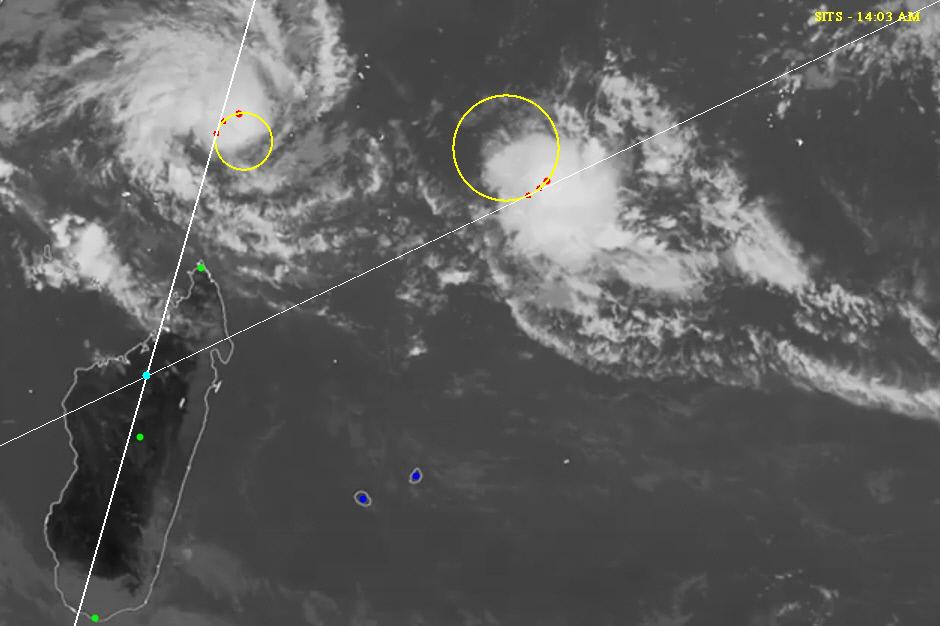
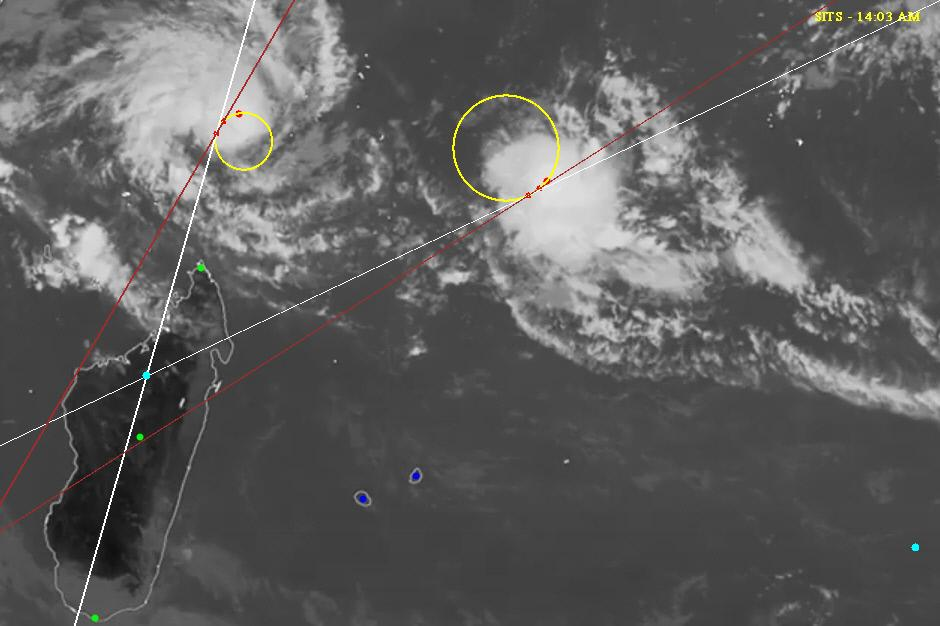
Updates in q2, q3 in assignment#1

diff --git a/assignment1/jigsolver.py b/assignment1/jigsolver.py
@@ -59,11 +59,36 @@ def swap_image(
     return A
 
 
+def mirror_padding(A: np.ndarray, xy: Tuple, hw: Tuple) -> np.ndarray:
+    x, y = xy
+    h, w = hw
+
+    for i in range(h // 2):
+        for j in range(w):
+            A[(x + i, y + j)] = A[(x - i - 1, y + j)]
+
+    for i in range(h // 2):
+        for j in range(w):
+            A[(x + h - i - 1, y + j)] = A[(x + h + i, y + j)]
+
+#    for j in range(w):
+ #       A[(x + h // 2, y + j)] = ( A[(x + h // 2 - 1, y + j)] + A[(x + h // 2 + 1, y + j)] ) // 2
+
+    return A
+
+
 def solve_jigsaw(A: np.ndarray) -> np.ndarray:
     A = flip_image(A, (370, 370), (51, 427), False)
     A = flip_image(A, (150, 515), (179, 185))
     A = flip_image(A, (200, 0), (210, 190), False)
     A = swap_image(A, (0, 0), (200, 190), (200, 0), (210, 190))
+    
+    for i in range(200, 400):
+        for j in range(190):
+            pxl = A[(i, j)]
+            pxl[1], pxl[2] = pxl[2], pxl[1]
+
+    A = mirror_padding(A, (400, 0), (10, 190))
 
     return A
 

diff --git a/assignment1/cycloanalyzer.py b/assignment1/cycloanalyzer.py
@@ -155,6 +155,12 @@ def find_tangent(c: Tuple, p: Tuple) -> Tuple:
     return (m, c)
 
 
+def find_line(c: Tuple, p: Tuple) -> Tuple:
+    m = (c[1] - p[1]) / (c[0] - p[0])
+    c = p[1] - m * p[0]
+    return (m, c)
+
+
 def distance(a: Tuple, b: Tuple) -> float:
     return np.sqrt((a[0] - b[0]) ** 2 + (a[1] - b[1]) ** 2)
 
@@ -243,6 +249,18 @@ for tangent in tangents:
 m1, c1, m2, c2 = *tangents[0], *tangents[1]
 
 poi = int((c2 - c1) / (m1 - m2)), int((m1 * c2 - m2 * c1) / (m1 - m2))
+
+ni = draw_circle(ni, poi, 4, (0, 255, 255))
+
+m1, c1, m2, c2 = *find_line(red_dots[2][0], red_dots[1][0]), *find_line(red_dots[2][1], red_dots[1][1])
+
+poi = int((c2 - c1) / (m1 - m2)), int((m1 * c2 - m2 * c1) / (m1 - m2))
+
+for m_c in [(m1, c1), (m2, c2)] :
+    for i in range(ni.shape[0]):
+        for j in range(ni.shape[1]):
+            if satisfy_line(m_c, (i, j)):
+                ni[(i, j)] = (165, 42, 42)
 
 ni = draw_circle(ni, poi, 4, (0, 255, 255))
 
